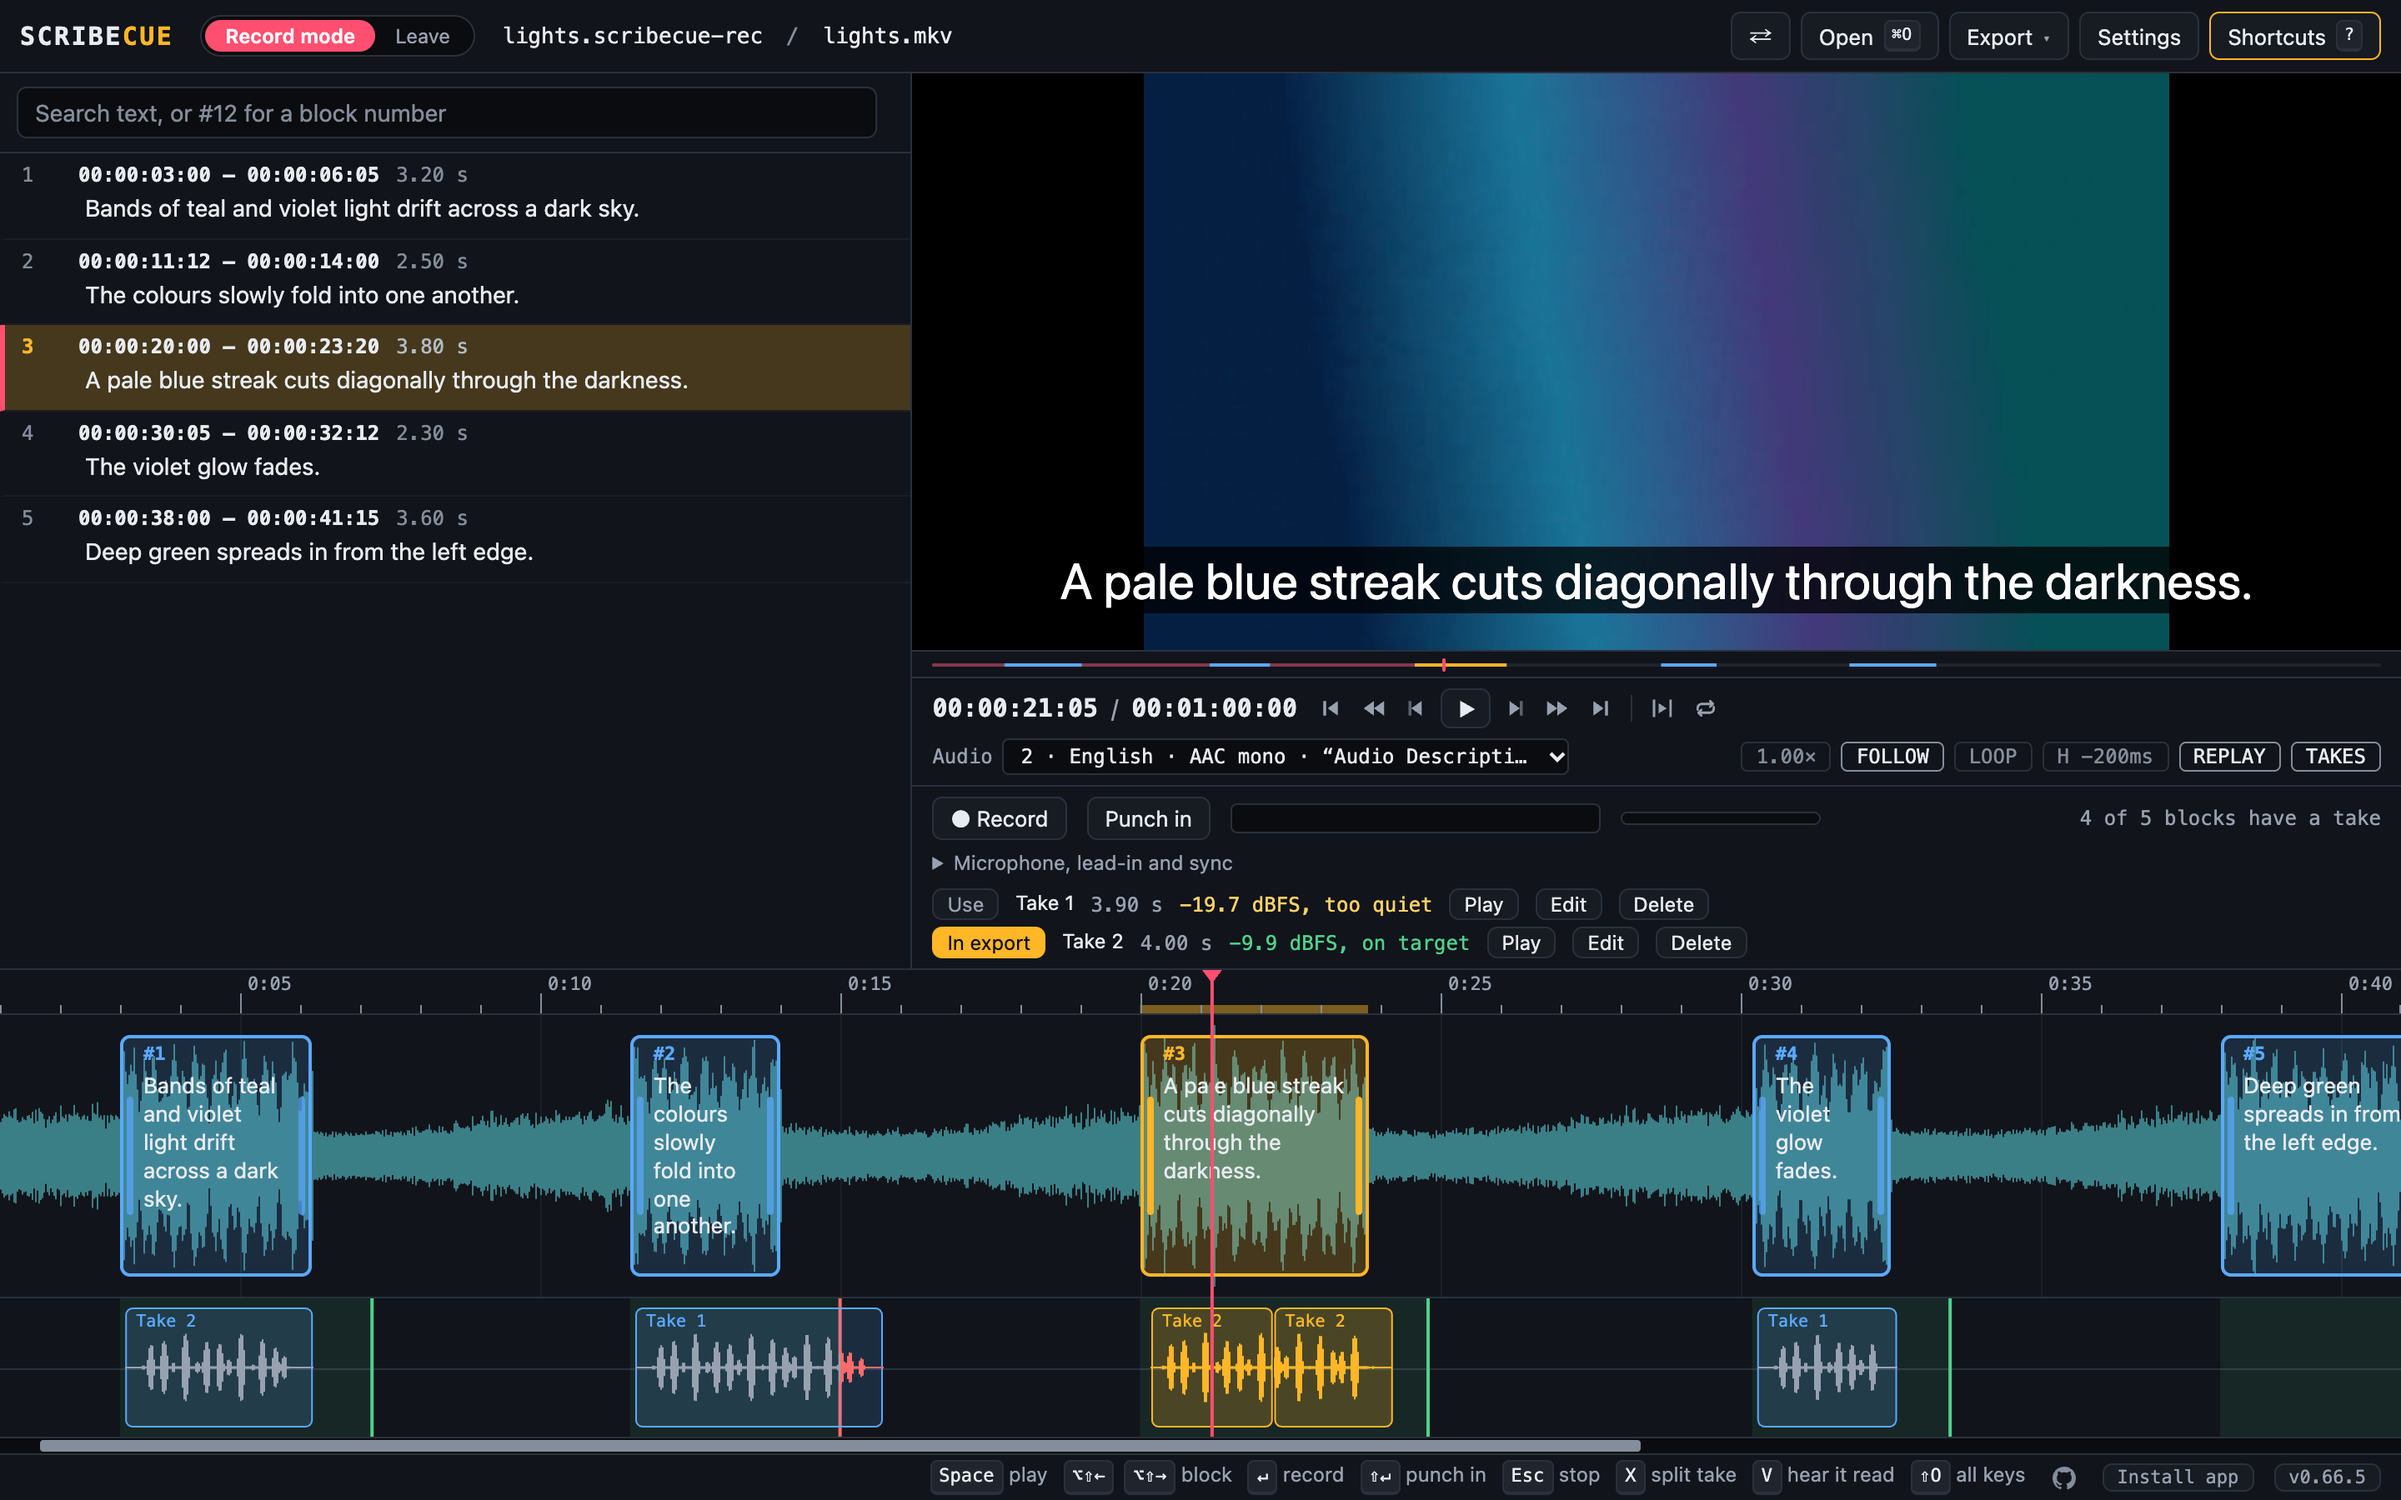
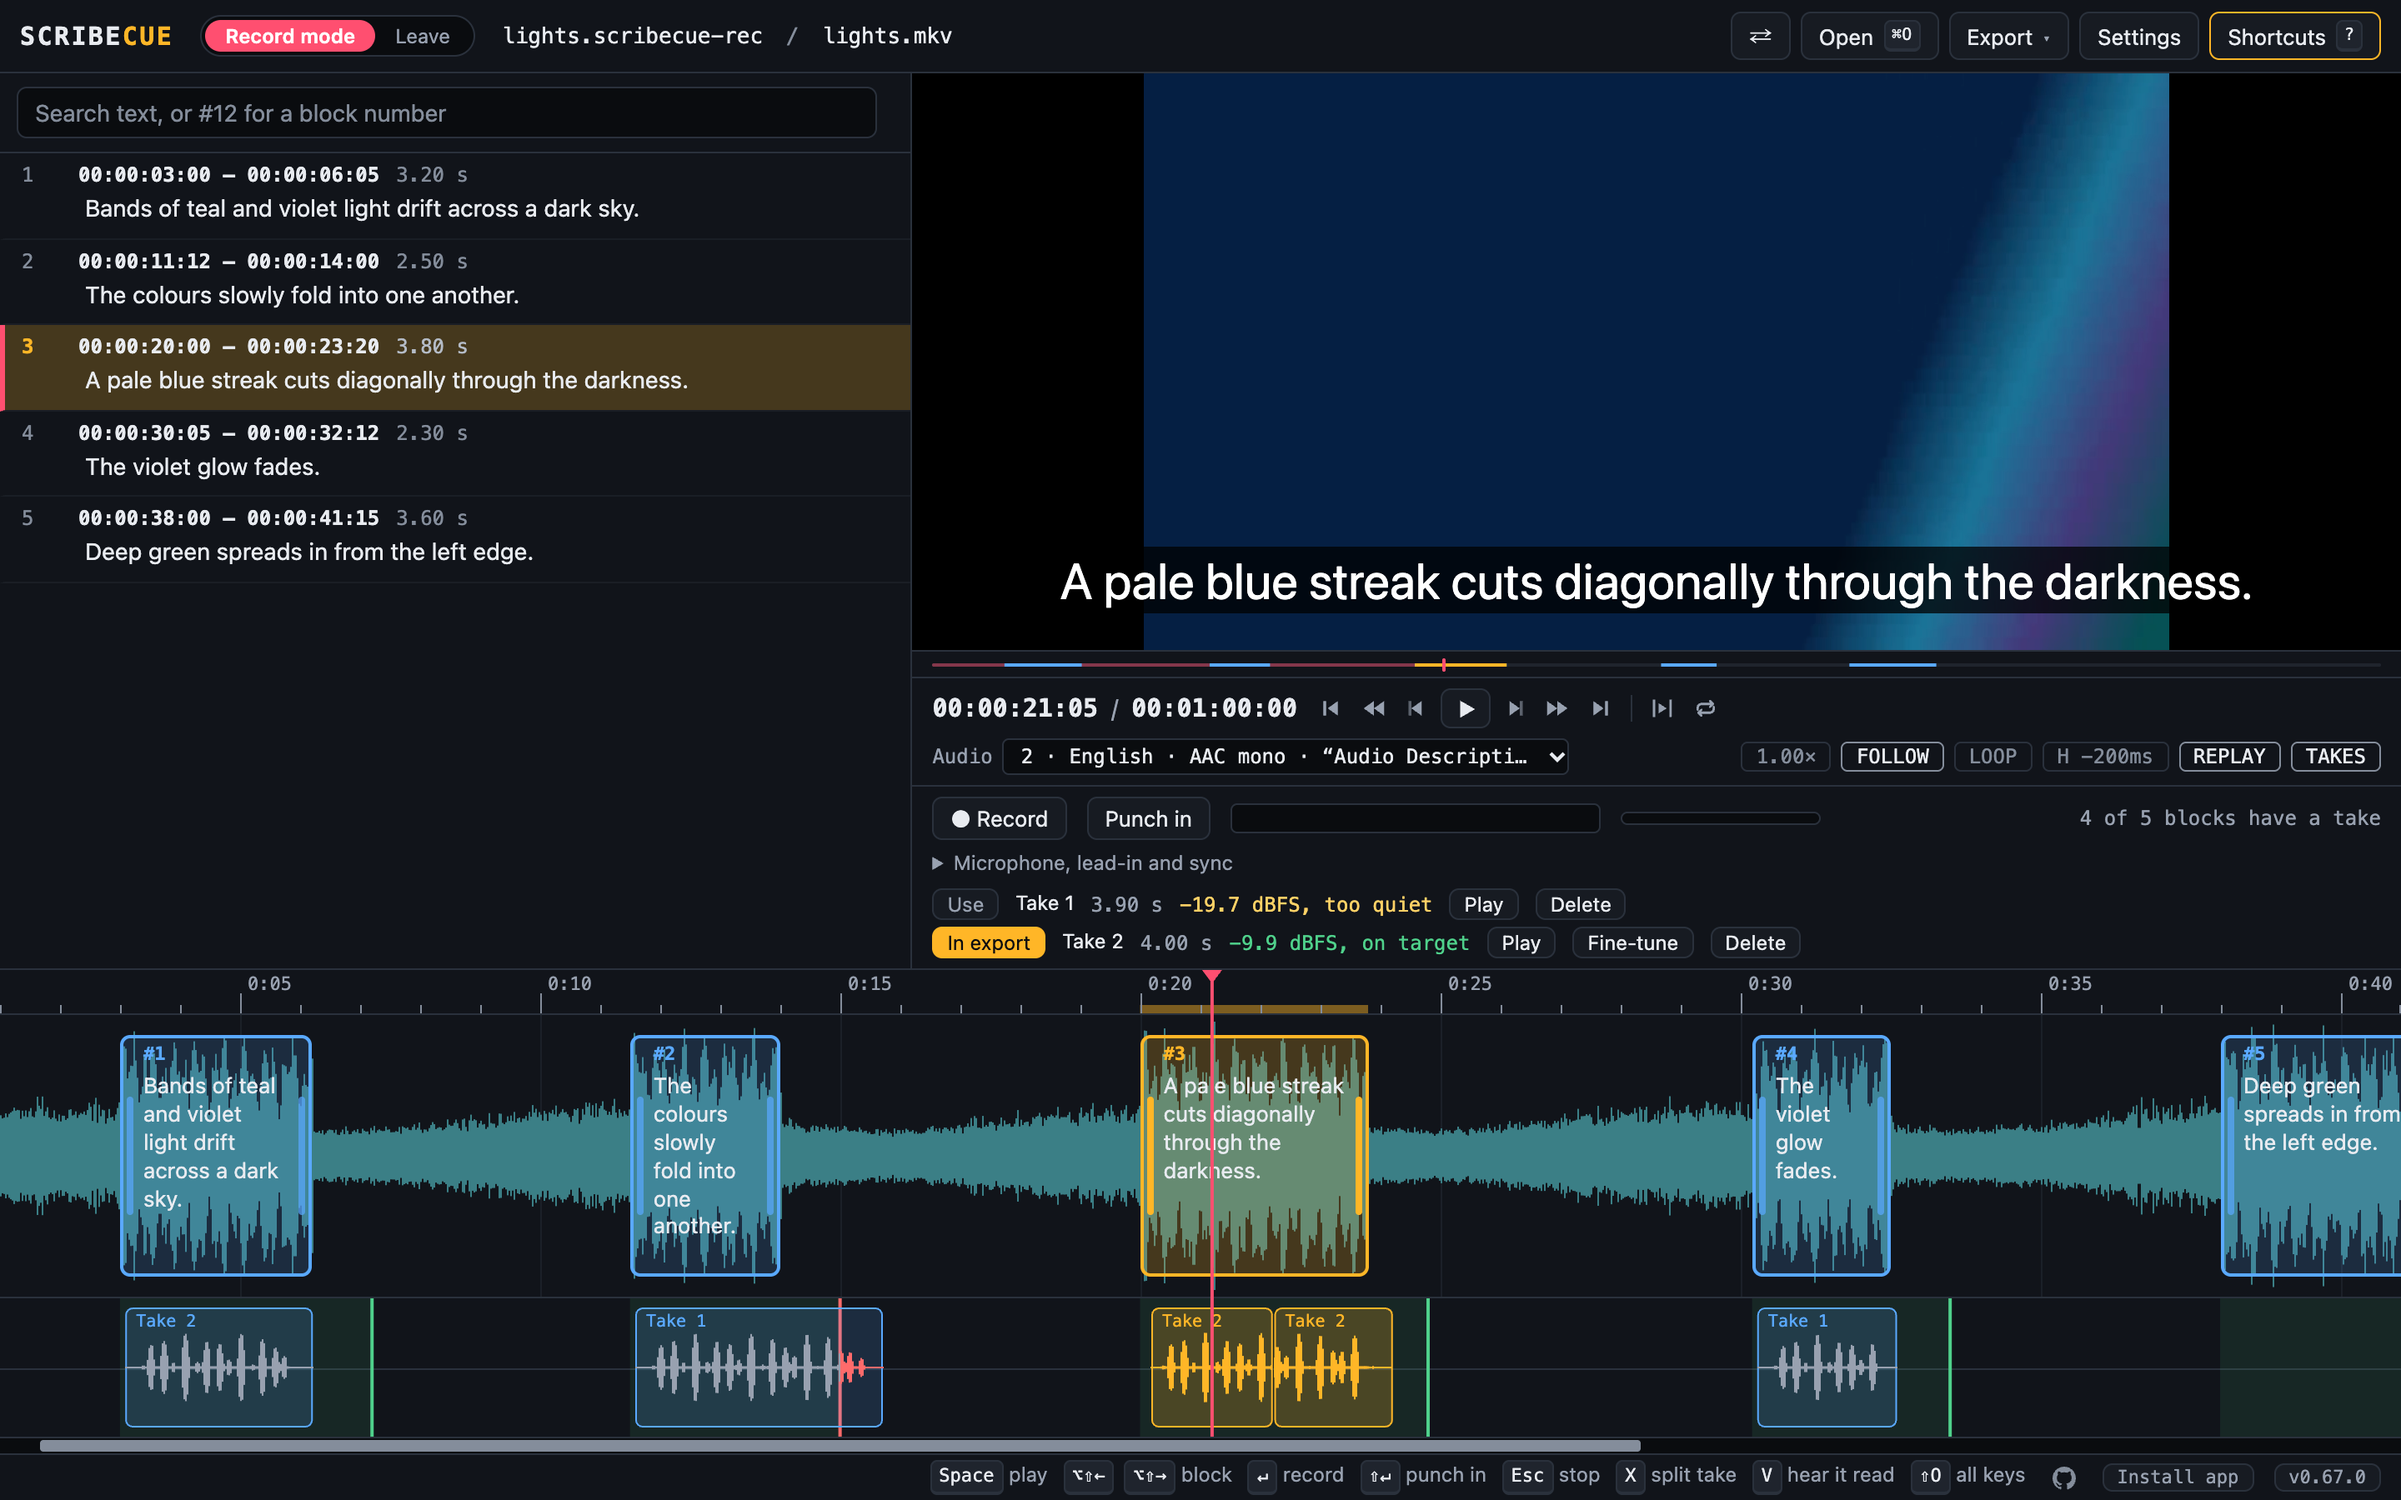
Rename a take's Edit to Fine-tune, on the picked take only
Takes are edited on the timeline now, so the list's button is for exact
values and keyboard use. It shows only on the take in the export, as the
timeline does, and closes when another take is picked.

diff --git a/app/js/record.js b/app/js/record.js
@@ -30,7 +30,7 @@ export function initRecord(h) {
   let syncMs = get('sync') != null ? +get('sync') : null; // null: use the browser's figure
   let wasPlaying = false;
   let where = 'browser';     // where takes are kept: 'docker' or 'browser'
-  let editing = null;        // the take open in the list to move or trim: { id }
+  let editing = null;        // the take open in the list to fine-tune, always the chosen one: { id }
 
   el.lead.value = leadSecs;
   el.sync.value = syncMs ?? '';
@@ -42,6 +42,7 @@ export function initRecord(h) {
   function status(msg) { el.status.textContent = msg; }
   function render() {
     h.redraw();
+    if (editing && !takeOf(editing.id)?.chosen) editing = null; // another take was picked
     const busy = state !== 'idle';
     el.go.textContent = busy ? '■ Stop' : '● Record';
     el.go.classList.toggle('on', busy);
@@ -83,10 +84,13 @@ export function initRecord(h) {
       const play = document.createElement('button');
       play.textContent = playing?.t.id === t.id ? 'Stop' : 'Play';
       play.addEventListener('click', () => (playing?.t.id === t.id ? stopPlay() : playTake(t)));
+      // Only the take in the export, as on the timeline: the same edits, by the millisecond.
       const ed = document.createElement('button');
-      ed.textContent = 'Edit';
+      ed.textContent = 'Fine-tune';
+      ed.dataset.tip = 'Move, trim or split this take by the millisecond, from the keyboard';
       ed.setAttribute('aria-expanded', String(editing?.id === t.id));
-      ed.setAttribute('aria-label', `Move or trim take ${k + 1}`);
+      ed.setAttribute('aria-label', `Fine-tune take ${k + 1}`);
+      ed.hidden = !t.chosen;
       ed.addEventListener('click', () => { editing = editing?.id === t.id ? null : { id: t.id }; render(); });
       const del = document.createElement('button');
       del.textContent = 'Delete'; del.setAttribute('aria-label', `Delete take ${k + 1}`);
@@ -113,7 +117,7 @@ export function initRecord(h) {
 
   // ---- editing a take: split it, move the parts and trim their ends, against the slot.
   // The chosen takes are clips on the take track, under the timeline's lane (see drawTrack);
-  // Edit in the list does the same in milliseconds, from the keyboard.
+  // Fine-tune in the list does the same in milliseconds, from the keyboard.
   const prevEndOf = (i) => (i ? sl()[i - 1].end : 0);
   const takeOf = (id) => takes.find((t) => t.id === id) || null;
   let pick = null;           // the part of a take last clicked: { id, part }

diff --git a/Guides/RECORDING.md b/Guides/RECORDING.md
@@ -99,7 +99,7 @@ Each take is checked by its loudest moment:
   Click **TAKES** under the video to turn that off.
 - **Play** plays one take against the video.
 - **Use** picks the take for the export. A new take is picked automatically.
-- **Edit** moves, trims or splits a take by the millisecond.
+- **Fine-tune** moves, trims or splits the take in the export by the millisecond.
 - **Delete** removes a take for good.
 
 ### Punching in
@@ -132,7 +132,7 @@ Each block's slot is shaded green. Any part of a take past its slot is red.
 - **Start at block** moves the take so its sound starts where the block does.
 - **Fit in slot** trims the end to where the slot stops.
 - **Reset** brings back the take as recorded, deleted parts too.
-- **Edit** in the list does the same by the millisecond, from the keyboard.
+- **Fine-tune** in the list does the same by the millisecond, from the keyboard.
 
 ![Right-clicking a take that runs past its slot](../docs/screenshots/recording-menu.png)
 
